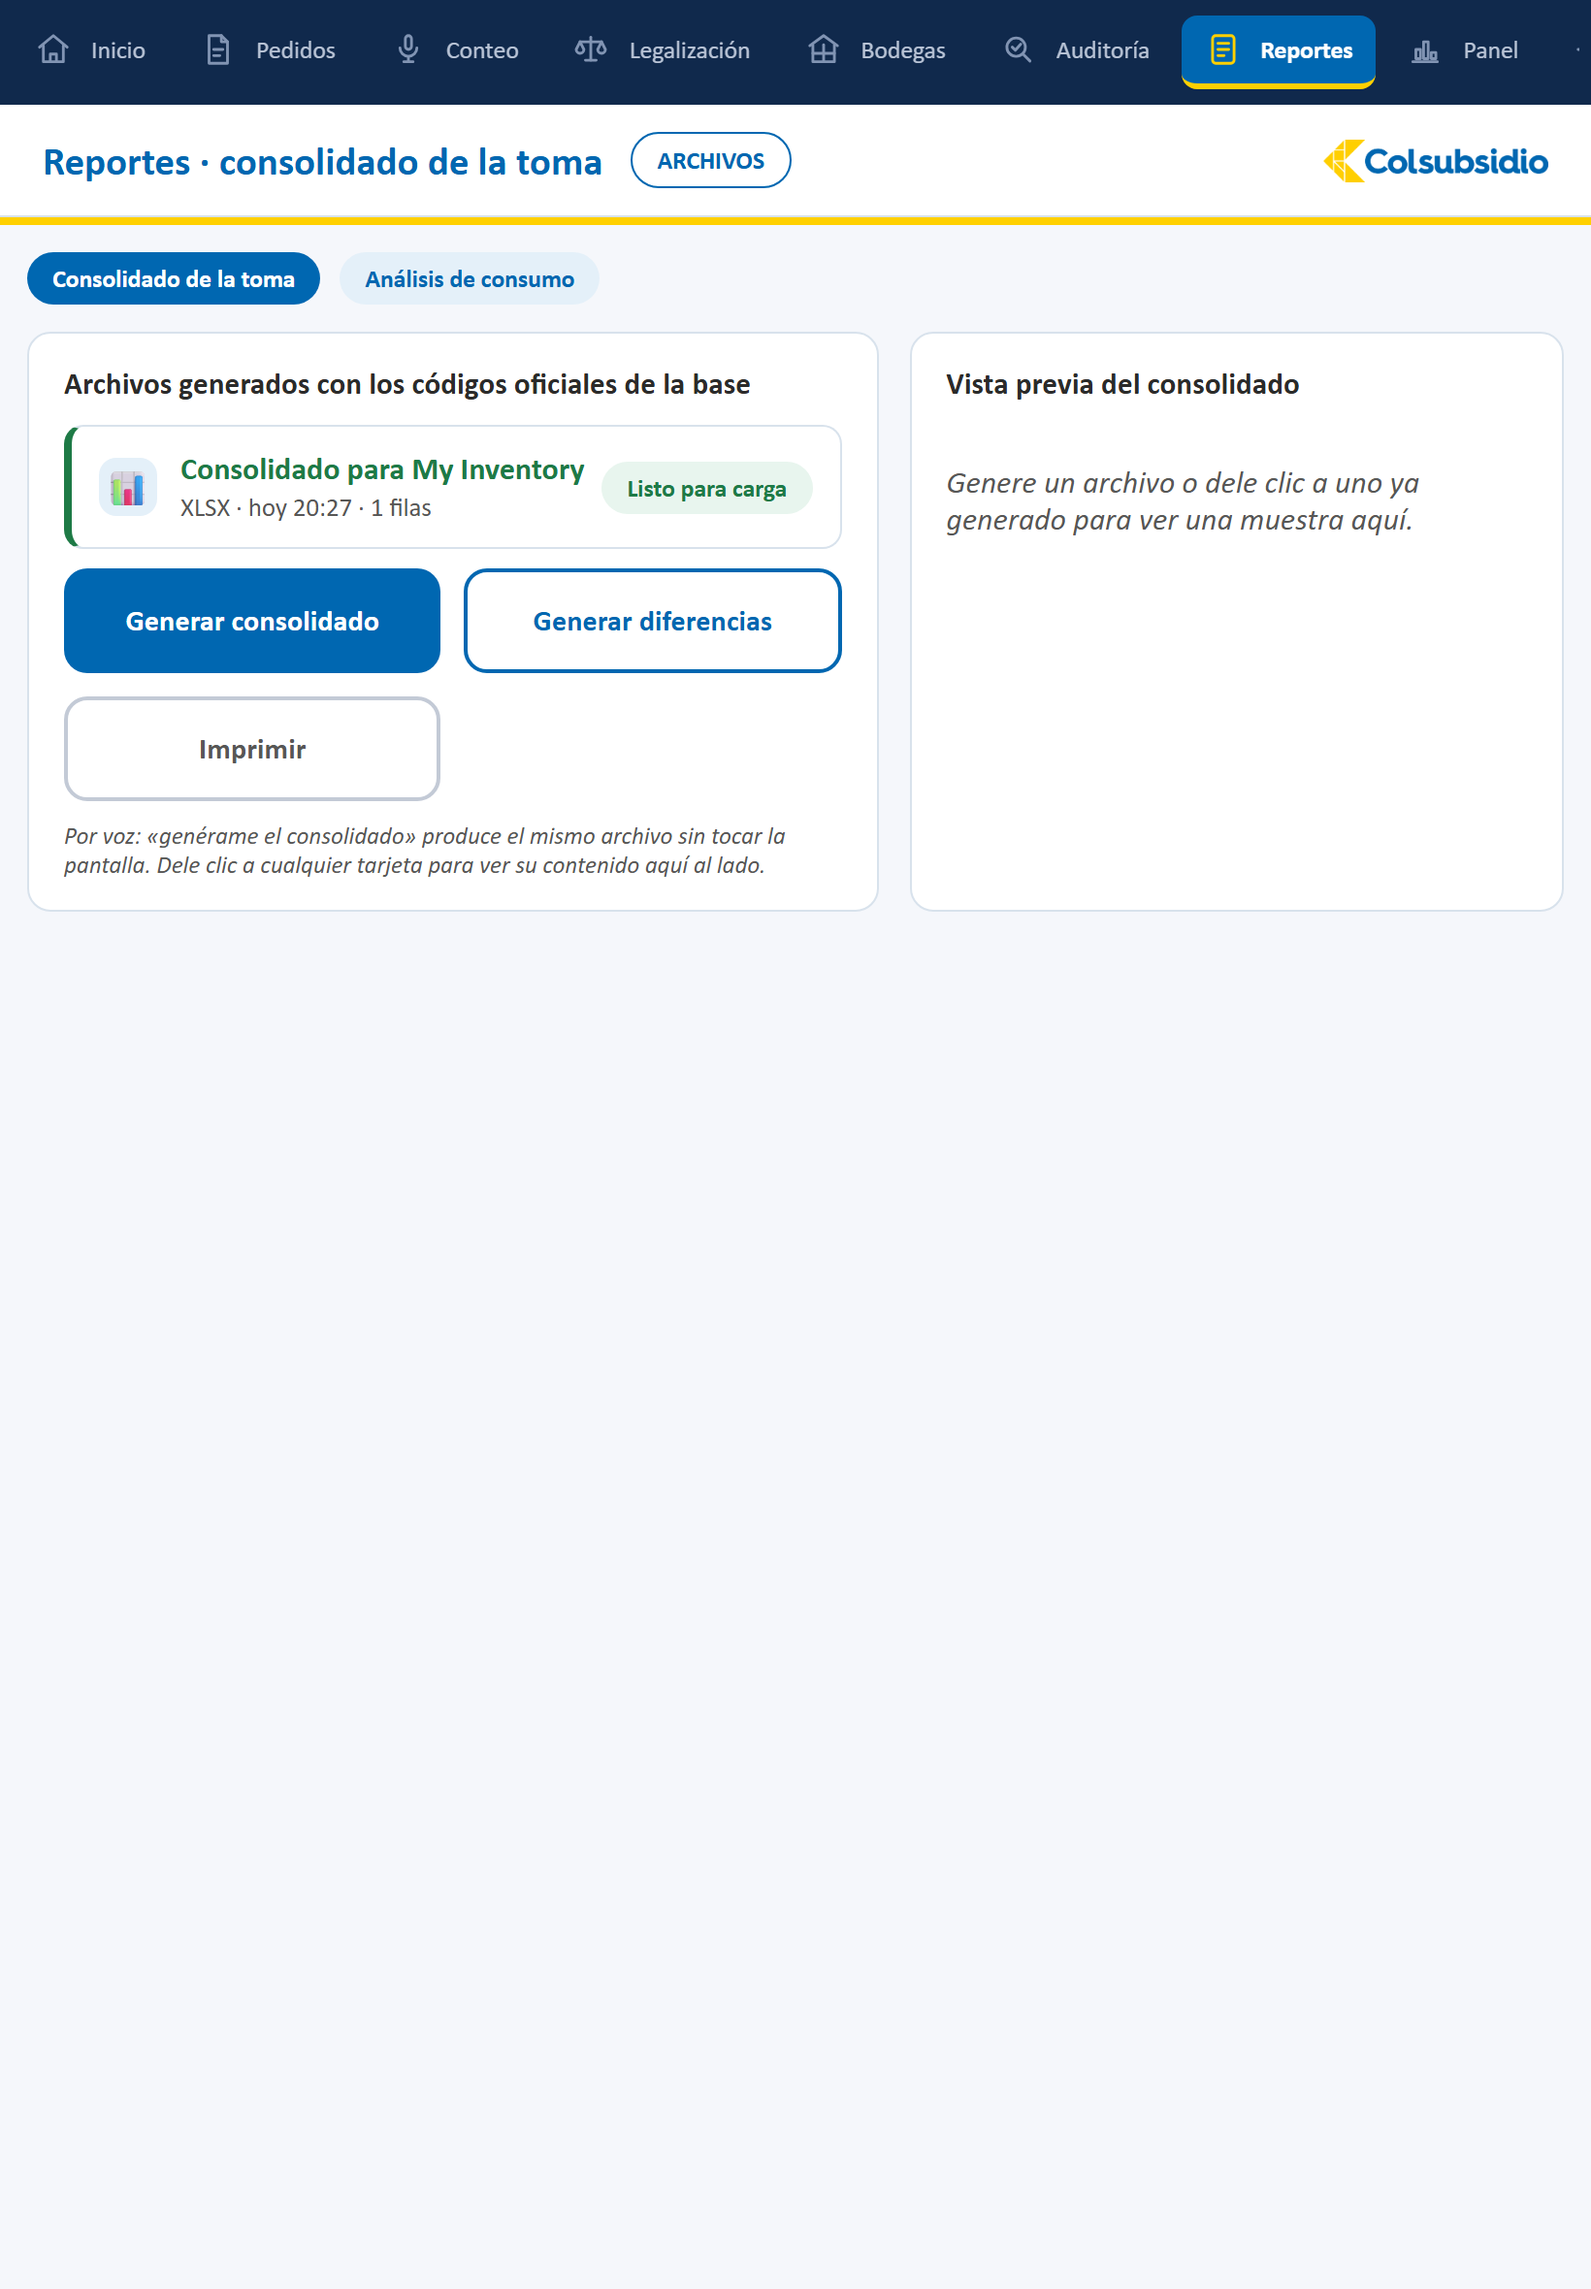
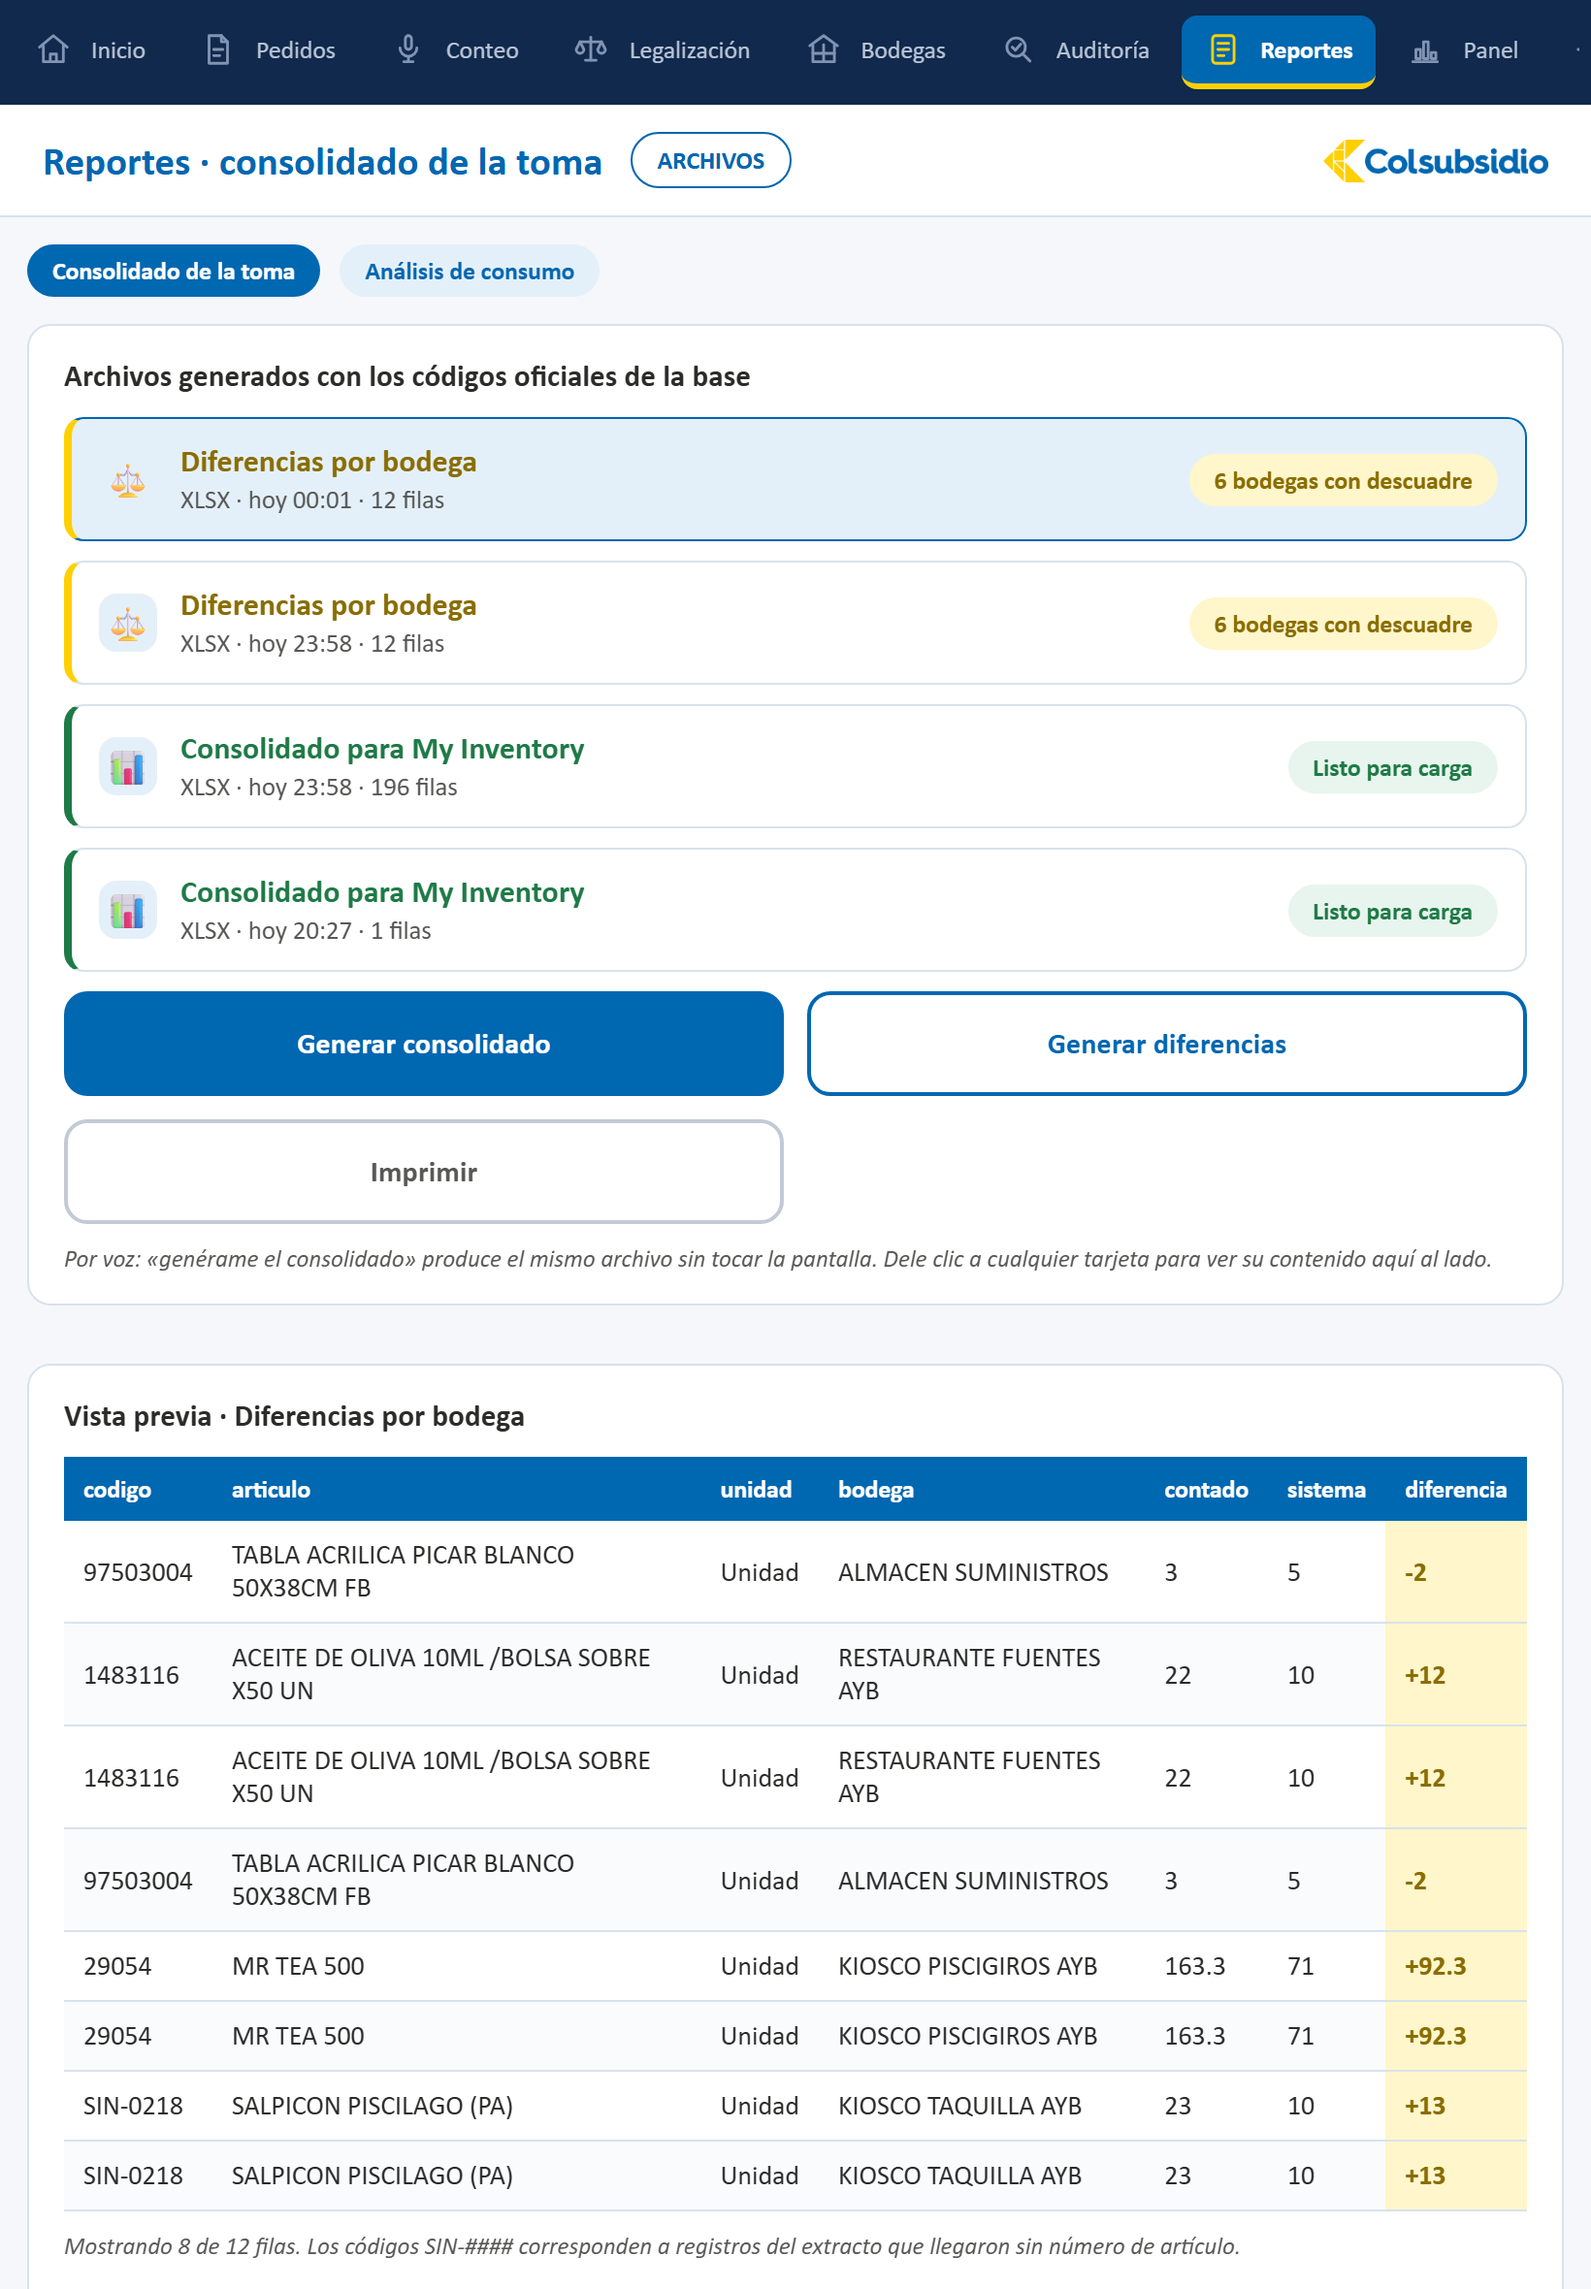
Enriquece las capturas de Legalización, Reportes e Ingreso; corrige responsivo de Reportes
Legalización y Reportes ahora muestran actividad real generada a
través del flujo real de la app (pedido -> ajuste por voz ->
legalización, y generación de consolidado/diferencias), en vez del
estado vacío inicial. Ingreso muestra el formulario con las
credenciales de demo ya escritas, con el botón ENTRAR habilitado y el
perfil detectado automáticamente.

De paso, dos bugs reales quedaron al descubierto por tener datos:
Reportes usaba una grilla de 2 columnas con estilo en línea que nunca
colapsaba en tablet (a diferencia de .dos-columnas/.conteo-cols), lo
que cortaba la tabla fuera de la pantalla; y la columna "diferencia"
del consolidado/diferencias arrastraba imprecisión de punto flotante
sin redondear.

diff --git a/frontend/src/vistas/Reportes.jsx b/frontend/src/vistas/Reportes.jsx
@@ -54,6 +54,7 @@ function TablaVistaPrevia({ filas }) {
   if (!filas || filas.length === 0) return <p className="vacio">Este archivo no tiene filas.</p>;
   const columnas = Object.keys(filas[0]);
   return (
+    <div className="tabla-scroll">
     <table>
       <thead><tr>{columnas.map((c) => <th key={c}>{c}</th>)}</tr></thead>
       <tbody>
@@ -68,6 +69,7 @@ function TablaVistaPrevia({ filas }) {
         ))}
       </tbody>
     </table>
+    </div>
   );
 }
 
@@ -117,7 +119,7 @@ function TabConsolidado({ token }) {
   }
 
   return (
-    <div style={{ display: "grid", gridTemplateColumns: "1.3fr 1fr", gap: 16 }}>
+    <div className="reportes-cols">
       <div className="card">
         <h3>Archivos generados con los códigos oficiales de la base</h3>
         {msg && <p className="msg-ok">{msg}</p>}
@@ -253,7 +255,7 @@ function TabAnalisis({ token }) {
           </p>
         </div>
       ) : (
-        <div style={{ display: "grid", gridTemplateColumns: "1.2fr 1fr", gap: 16 }}>
+        <div className="reportes-cols">
           <div className="card">
             <h3>📉 Sobrepedido frente a la receta</h3>
             <div style={{ display: "flex", flexDirection: "column", gap: 10 }}>

diff --git a/frontend/src/index.css b/frontend/src/index.css
@@ -347,6 +347,9 @@ td.dif, td.falta { background: var(--amarillo-bg); color: var(--amarillo-tx);
 .vacio { color: var(--grafito); font-style: italic; padding: 20px 0; }
 .cargando { color: var(--grafito); padding: 24px; }
 
+.reportes-cols { display: grid; grid-template-columns: 1.3fr 1fr; gap: 16px; }
+.tabla-scroll { overflow-x: auto; }
+
 /* ══ Móvil: una columna, micrófono grande ══ */
 @media (max-width: 860px) {
   .app-root { grid-template-columns: 1fr; grid-template-rows: auto 1fr; }
@@ -358,6 +361,7 @@ td.dif, td.falta { background: var(--amarillo-bg); color: var(--amarillo-tx);
   .sidebar li.sel { border-left: none; border-bottom-color: var(--amarillo); }
   .conteo-cols { grid-template-columns: 1fr; }
   .dos-columnas { grid-template-columns: 1fr; }
+  .reportes-cols { grid-template-columns: 1fr; }
   .perfil-cols { grid-template-columns: 1fr; }
   .campos-2col { grid-template-columns: 1fr; }
   .mic-btn { width: min(64vw, 200px); height: min(64vw, 200px); font-size: 3.4rem;

diff --git a/backend/reportes.py b/backend/reportes.py
@@ -26,6 +26,7 @@ def consolidado(formato: str = "xlsx") -> tuple[str, int, list[dict]]:
     # y aqui significa lo mismo que en el resto de la app: no hay dato,
     # se trata como 0.
     df["sistema"] = df["sistema"].fillna(0)
+    df["diferencia"] = df["diferencia"].round(2)
     os.makedirs("reportes", exist_ok=True)
     marca = datetime.datetime.now().strftime("%Y%m%d_%H%M")
     ruta = f"reportes/consolidado_{marca}.{formato}"
@@ -41,6 +42,7 @@ def diferencias_archivo(formato: str = "xlsx") -> tuple[str, int, int]:
     """«Diferencias por bodega» descargable: solo las filas donde el
     conteo no cuadro con el sistema, no el consolidado completo."""
     df = pd.read_sql(CONSULTA, motor)
+    df["diferencia"] = df["diferencia"].round(2)
     df = df[df["diferencia"] != 0]
     os.makedirs("reportes", exist_ok=True)
     marca = datetime.datetime.now().strftime("%Y%m%d_%H%M")
@@ -56,6 +58,7 @@ def detalle_bodega(bodega_id: int, formato: str = "xlsx") -> str:
     """«Descargar detalle»: el conteo completo de una sola bodega."""
     df = pd.read_sql(CONSULTA + " AND b.id = :bodega_id",
                      motor, params={"bodega_id": bodega_id})
+    df["diferencia"] = df["diferencia"].round(2)
     os.makedirs("reportes", exist_ok=True)
     marca = datetime.datetime.now().strftime("%Y%m%d_%H%M")
     ruta = f"reportes/bodega_{bodega_id}_{marca}.{formato}"
